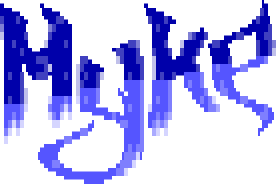
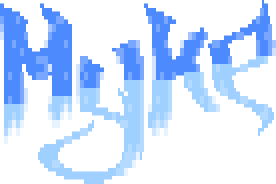
.

diff --git a/_assets/stylesheets/ui/_header.scss b/_assets/stylesheets/ui/_header.scss
@@ -1,53 +1,92 @@
 .header {
+	position: relative;
 	padding: 5px 0;
-	overflow: hidden;
+	overflow: visible;
 	//@include linear-gradient(map-get($colors, primary), black, top);
-	@include linear-gradient(adjust-color(map-get($colors, primary), $lightness: 10%), black, top);
-	border-bottom: 2px solid adjust-color(map-get($colors, primary), $lightness: 25%, $saturation: -15%);
+	@include linear-gradient(adjust-color(map-get($colors, primary), $lightness: -15%, $saturation: -35%), black, top);
+	//border-bottom: 2px solid adjust-color(map-get($colors, primary), $lightness: 35%, $saturation: -15%);
+	border-bottom: red;
 	vertical-align: middle;
 
 	@include sm-plus {
 		padding: 10px 0;
-		text-align: center;
+		text-align: left;
 	}
 
-	nav, &__logo { &, img {
+	&__logo { &, img {
 		display: inline-block;
 	} }
 
 	&__logo {
 		img {
-			@include res(max-width,69px,69px,69px*2,69px*2);
+			@include full;
+			//@include res(max-width,69px,69px,69px*2,69px*2);
+			@include stopAntiAliasing;
 		}
 	}
-
 
 	.nav__item,
 	&__social a {
 		//&, &--active:hover {
-		color: map-get($colors, quaternary);
+		color: adjust-color(map-get($colors, primary), $lightness: 30%, $saturation: 10%);
 		//&:not(&--active) &:hover {
 		&:hover {
-			color: adjust-color(map-get($colors, quaternary), $lightness: 10%, $saturation: -10%);
+			color: adjust-color(map-get($colors, primary), $lightness: 40%, $saturation: 0%);
 		}
 	}
 
+	&__mobile {
+		text-align: right;
+		@include xs {
+			position: absolute;
+			top: 50%;
+			margin-top: -70px*0.5;
+			right: 0;
+		}
+	}
+
+	&__social,
+	.nav__button--header {
+		display: inline-block;
+		line-height: 1;
+		@include fs(50);
+	}
 
 	&__social {
 		.social {
-			// Make a mixin for these:
-			-webkit-column-count: 3;
-			-moz-column-count: 3;
-			column-count: 3;
-			-webkit-column-gap: 10px;
-			-moz-column-gap: 10px;
-			column-gap: 10px;
-
-			text-align: right;
-			@include res(fs,18,22,24,30);
+			@include res(fs,inherit,22,24,30);
 			li {
 				display: inline-block;
+				@include xs { font-size: 50%; }
 			}
+		}
+		@include xs {
+			.social {
+				/*-webkit-column-count: 2;
+				-moz-column-count: 2;
+				column-count: 2;
+				-webkit-column-gap: $grid-gutter-width;
+				-moz-column-gap: $grid-gutter-width;
+				column-gap: $grid-gutter-width;
+				-moz-column-fill: balance;
+					  column-fill: balance;*/
+				li {
+					display: block;
+					float: left;
+					&:nth-child(2n+1) {
+						clear: left;
+					}
+				}
+			}
+		}
+	}
+
+	.nav__button--header {
+		background: black;
+		padding: 10px;
+		border-radius: 2px;
+		&, .fa {
+			color: adjust-color(map-get($colors, primary), $lightness: 30%, $saturation: 10%);
 		}
 	}
 }

diff --git a/_includes/header.html b/_includes/header.html
@@ -1,7 +1,13 @@
 <header class="header">
 	<div class="container-fluid">
 		<div class="row">
-			<div class="col-xs-6 col-sm-8 col-sm-push-2">
+			<div class="col-xs-6 col-sm-2">
+				<a href="/" class="header__logo" title="{{ site.title }}">
+					<img src="/img/header__motd.png" srcset="/img/header__motd.png 1x, /img/header__motd@2x.png 2x, /img/header__motd@3x.png 3x, " alt="" />
+				</a>
+			</div>
+
+			<div class="col-xs-12 col-sm-6">
 				<nav role="navigation" class="nav nav--primary">
 					{% comment %}
 					This is how I originally loaded in the categories,
@@ -27,30 +33,24 @@
 							</a>
 						{% endif %}
 					{% endfor %}
-				</nav>
 
-				<a href="/" class="header__logo" title="{{ site.title }}">
-					<img src="/img/header__motd.png" srcset="/img/header__motd.png 1x, /img/header__motd@2x.png 2x, /img/header__motd@3x.png 3x, " alt="" />
-				</a>
-
-				<nav role="navigation" class="nav nav--secondary">
 					<a class="nav__item nav__item--about
 					{% if page.title and page.title == 'About' %} nav__item--active{% endif %}
-					" href="/about/">About</a>
+					" href="/about/"><i class="fa fa-user"></i>Info</a>
 					<a class="nav__item nav__item--contact
 					{% if page.title and page.title == 'Contact' %} nav__item--active{% endif %}
-					" href="/contact/">Contact</a>
+					" href="/contact/"><i class="fa fa-comments-o"></i>Contact</a>
 				</nav>
 			</div>
 
-			<div class="col-xs-6 xs-visible">
-				<i class="fa fa-menu"></i>[Menu]
-			</div>
-
-			<div class="col-xs-12 col-sm-2 col-sm-push-2">
-				<div class="header__social">
+			<div class="col-xs-6 col-sm-4 header__mobile">
+				<span class="header__social">
 					{% include social_links.html %}
-				</div>
+				</span>
+
+				<span class="nav__button nav__button--header visible-xs-inline-block">
+					<i class="fa fa-bars"></i>
+				</span>
 			</div>
 		</div>
 	</div>

diff --git a/_assets/javascripts/site.js b/_assets/javascripts/site.js
@@ -1,17 +1,39 @@
-var cursorTimeout, cursorStates, cursorStatesIndex;
 
 $(function() {
 
-	/* Create beasty code mirrors for any code blocks - created in markdown files in this fashion:
-	 *
-	 * ~~~
-	 * 	Code and such
-	 * ~~~
-	 * {: .beast data-mode="javascript"}
-	 *
-	 * Other useful modes are: clike (c), htmlmixed, sass, css, shell, vbscript (batch), xml, python, sql
-	 * NOTE: These will need to be added in as a // = require line at the top of this file!
-	 */
+	initMobileMenu();
+
+	beastyCode();
+
+	silliness();
+
+});
+
+
+/*
+ * Dead simple mobile nav menu button
+ * (could be expanded out to use generic .nav__button and nearby .nav in future)
+ */
+function initMobileMenu() {
+	$('.nav__button--header').length &&
+	$('.nav--primary').length &&
+	$('.nav__button--header').click(function() {
+		$('.nav--primary').stop().slideToggle();
+	});
+}
+
+
+/* Create beasty code mirrors for any code blocks - created in markdown files in this fashion:
+ *
+ * ~~~
+ * 	Code and such
+ * ~~~
+ * {: .beast data-mode="javascript"}
+ *
+ * Other useful modes are: clike (c), htmlmixed, sass, css, shell, vbscript (batch), xml, python, sql
+ * NOTE: These will need to be added in as a // = require line at the top of this file!
+ */
+function beastyCode() {
 	$('.beast code').length &&
 	$('.beast').each(function() {
 		// Grab the code and mode
@@ -40,8 +62,14 @@ $(function() {
 			codeElem.remove();
 		}
 	});
+}
 
 
+/*
+ * Let's throw a little bit of silliness into the mix
+ */
+var cursorTimeout, cursorStates, cursorStatesIndex;
+function silliness() {
 	cursorStates = [
 		"n-resize",
 		"ne-resize",
@@ -63,7 +91,5 @@ $(function() {
 	}, function() {
 		$('.header__logo').css('cursor', 'auto');
 		clearInterval(cursorTimeout);
-	})
-
-
-});
+	});
+}

diff --git a/_assets/stylesheets/_vars.scss b/_assets/stylesheets/_vars.scss
@@ -1,9 +1,9 @@
 
 $colors: (
-	"primary": #0d1031,
+	"primary": #327ee8,
 	"secondary": #002240,
 	"tertiary": black,
-	"quaternary": #5555ff,
+	//"quaternary": #5555ff,
 	//"quinary": #09a5d8,
 	//"senary": #09a5d8,
 	//"septenary": #b3b3b3,
@@ -15,7 +15,7 @@ $colors: (
 );
 
 $link-hover-decoration: none; // default is underline, which is daft when <a> are none by default
-$brand-primary: #5555ff;
+$brand-primary: map-get($colors, primary);
 
 // Generate .color--primary, .background--primary, etc style classes
 @each $key, $value in $colors {
@@ -32,3 +32,7 @@ $brand-primary: #5555ff;
 		}
 	}
 }
+
+$z-indexes: (
+	"nav--primary": 100
+);

diff --git a/_assets/stylesheets/ui/_nav.scss b/_assets/stylesheets/ui/_nav.scss
@@ -1,6 +1,5 @@
 
 .nav {
-	&--primary { }
 	&--secondary { }
 
 	&__item {
@@ -17,6 +16,34 @@
 		.fa {
 			text-decoration: none;
 			margin: 0 5px;
+		}
+	}
+
+	/*
+	 * Mobile nav dropdown
+	 */
+	@include xs {
+		.header &--primary {
+			display: none;
+			position: absolute;
+			top: 100%;
+			left: 0;
+			right: 0;
+			background: black;
+			z-index: map-get($z-indexes, nav--primary);
+		}
+		.header &--primary &__item {
+			display: block;
+			clear: both;
+		}
+	}
+
+	/*
+	 * Desktop nav dropdown overrides
+	 */
+	@include md-plus {
+		.header .nav--primary {
+			display: inline-block!important;
 		}
 	}
 }

diff --git a/_assets/stylesheets/_mixins.scss b/_assets/stylesheets/_mixins.scss
@@ -307,3 +307,17 @@
 		@content;
 	}
 }
+
+
+/* Usage
+@include stopAntiAliasing;
+*/
+@mixin stopAntiAliasing {
+	image-rendering: optimizeSpeed;             // Stop smoothing
+	image-rendering: -moz-crisp-edges;          // Firefox
+	image-rendering: -o-crisp-edges;            // Opera
+	image-rendering: -webkit-optimize-contrast; // Chrome/Safari
+	image-rendering: pixelated;                 // Chrome
+	image-rendering: optimize-contrast;         // CSS3 Proposed
+	-ms-interpolation-mode: nearest-neighbor;   // IE8+
+}
